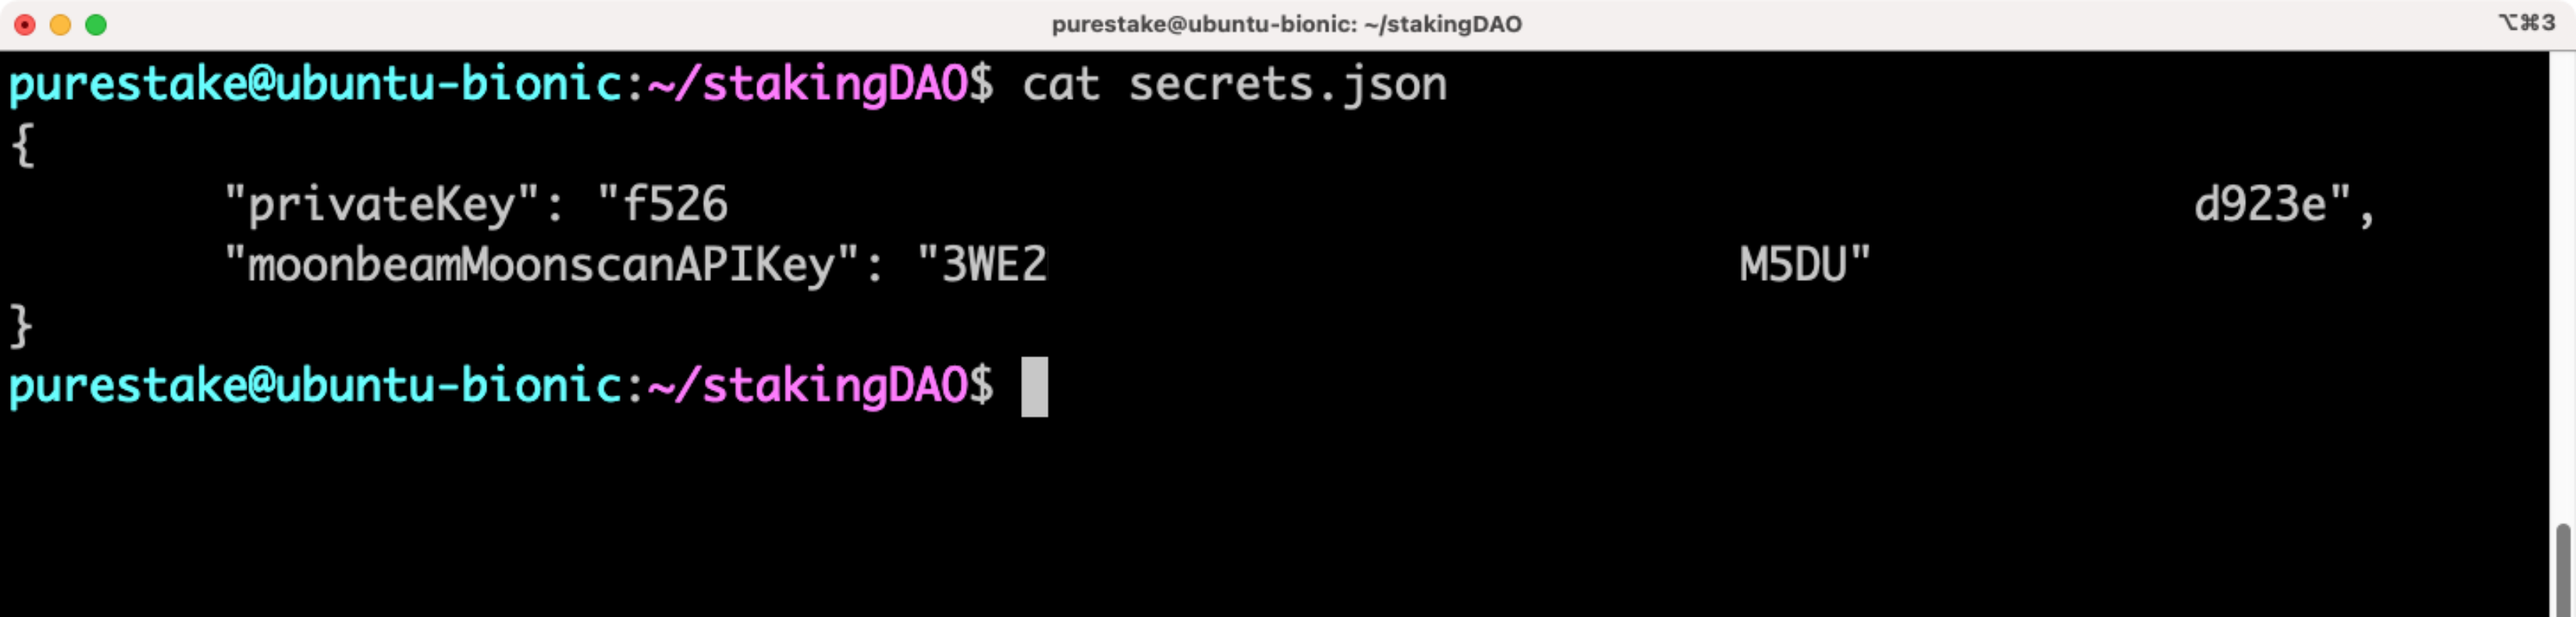
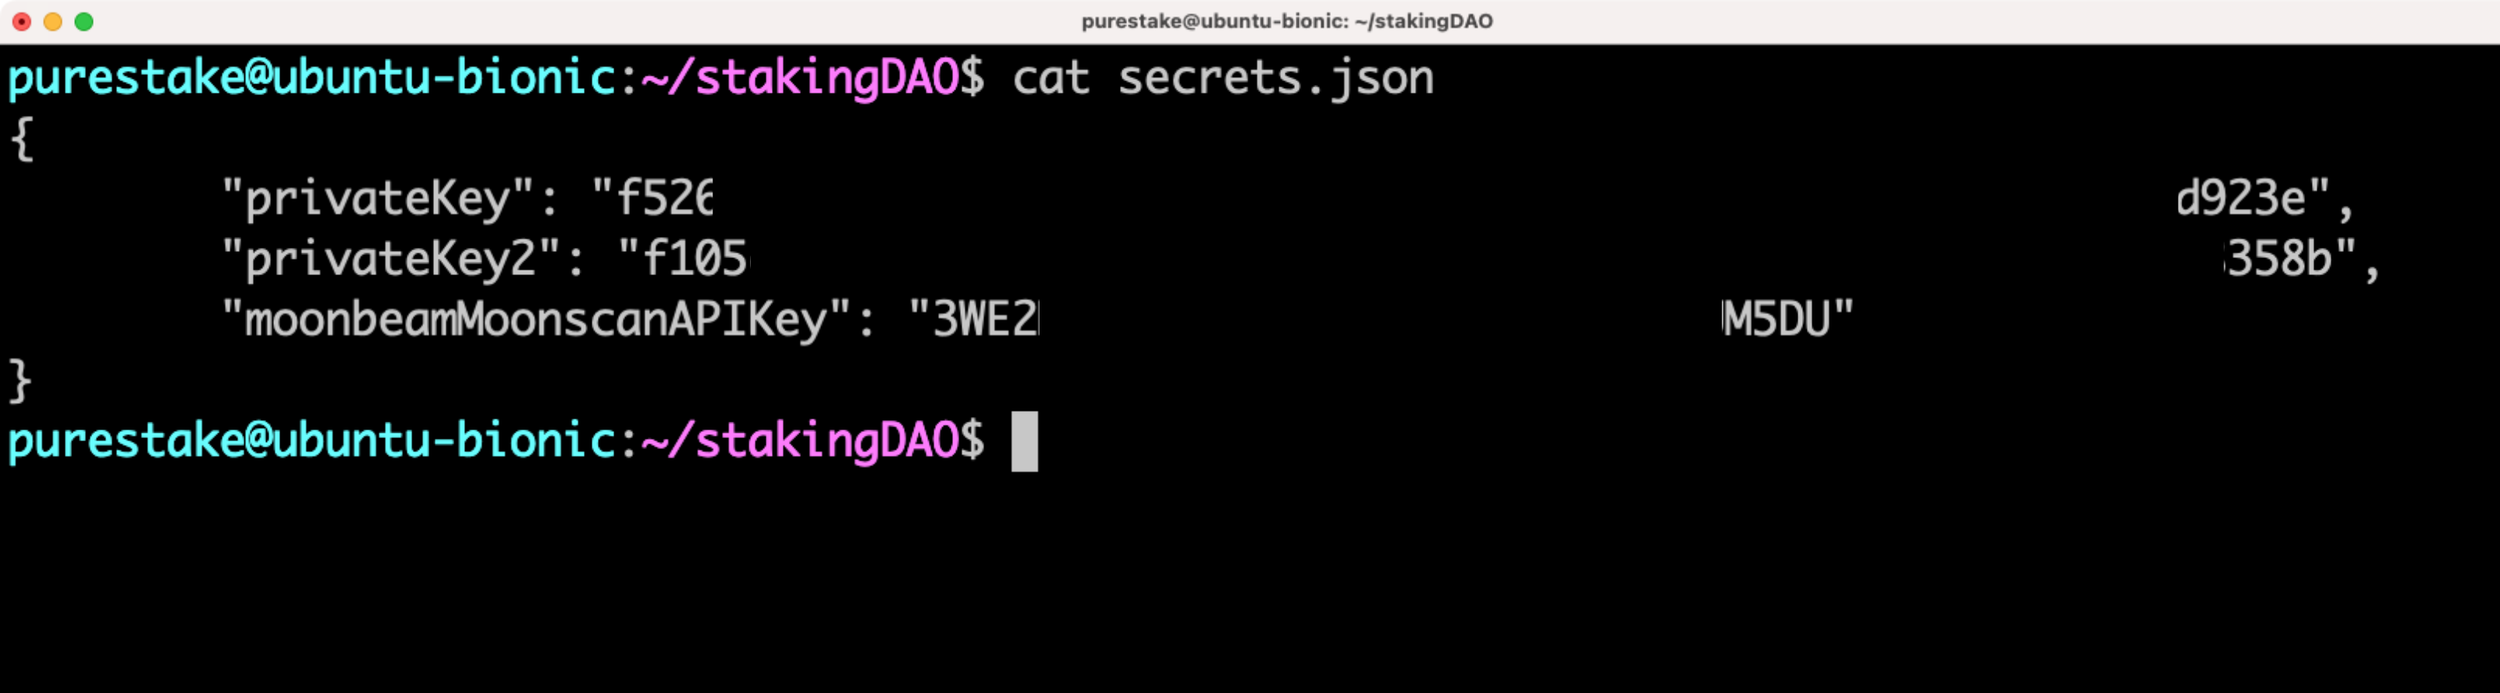
revise testing section to recommend moonbeam local dev node

diff --git a/tutorials/hardhat-tutorial.md b/tutorials/hardhat-tutorial.md
@@ -23,6 +23,7 @@ To get started, you will need the following:
  - A Moonbase Alpha account funded with DEV. 
   --8<-- 'text/faucet/faucet-list-item.md'
  - A [Moonscan API Key](/builders/build/eth-api/verify-contracts/etherscan-plugins/#generating-a-moonscan-api-key){target=_blank}
+ - For the [Testing section](#running-your-tests) you'll need to have [a local Moonbeam node running](/builders/get-started/networks/moonbeam-dev/){target=_blank}
   - 
 --8<-- 'text/common/endpoint-examples.md'
 
@@ -86,19 +87,20 @@ To get started, take the following steps:
 
 ## Hardhat Configuration File {: #hardhat-configuration-file } 
 
-Before you can deploy the contract to Moonbase Alpha, you'll need to modify the Hardhat configuration file and create a secure file to store your private key and your [Moonscan API key](/builders/build/eth-api/verify-contracts/etherscan-plugins/#generating-a-moonscan-api-key){target=_blank} in.
+Before you can deploy the contract to Moonbase Alpha, you'll need to modify the Hardhat configuration file and create a secure file to store your private keys and your [Moonscan API key](/builders/build/eth-api/verify-contracts/etherscan-plugins/#generating-a-moonscan-api-key){target=_blank} in.
 
-You can create a `secrets.json` file to store your private key by running:
+You can create a `secrets.json` file to store your private keys by running:
 
 ```
 touch secrets.json
 ```
 
-Then add your private key and Moonscan API key to it:
+Then add your private keys and Moonscan API key to it. Here, we're adding two private keys because we'll need at least 2 separate accounts to properly test the staking DAO. 
 
 ```json
 {
     "privateKey": "YOUR-PRIVATE-KEY-HERE",
+    "privateKey2": "YOUR-SECOND-PRIVATE-KEY-HERE",
     "moonbeamMoonscanAPIKey": "YOUR-MOONSCAN-API-KEY-HERE"
 }
 ```
@@ -132,7 +134,7 @@ require('@nomiclabs/hardhat-ethers');
 
 // 2. Import your private key from your pre-funded Moonbase Alpha testing 
 // account and your Moonscan API key
-const { privateKey, moonbeamMoonscanAPIKey } = require('./secrets.json');
+const { privateKey, privateKey2, moonbeamMoonscanAPIKey } = require('./secrets.json');
 
 module.exports = {
   // 3. Specify the Solidity version
@@ -143,8 +145,13 @@ module.exports = {
     moonbase: {
       url: '{{ networks.moonbase.rpc_url }}',
       chainId: {{ networks.moonbase.chain_id }}, // {{ networks.moonbase.hex_chain_id }} in hex
-      accounts: [privateKey]
-    }
+      accounts: [privateKey, privateKey2]
+    },
+    dev: {
+      url: 'http://127.0.0.1:9933',
+      chainId: 1281, // (hex: 0x501)
+      accounts: [privateKey, privateKey2]
+    },
   },
   // 5. Set up your Moonscan API key for contract verification
   etherscan: {
@@ -360,10 +367,17 @@ And that's it! You're now ready to run your tests!
 
 If you've followed all of the prior sections, your [`Dao.js`](https://raw.githubusercontent.com/PureStake/moonbeam-intro-course-resources/main/delegation-dao-lesson-one/Dao.js){target=_blank} test file should be all set to go. Otherwise, you can copy the [complete snippet from GitHub](https://github.com/PureStake/moonbeam-docs/blob/master/.snippets/code/hardhat/dao-js-test-file.js) into your `Dao.js` test file.
 
+Since our test cases encompass mostly configuration and setup of the staking DAO and don't involve actual delegation actions, we'll be running our tests on a Moonbeam dev node (local node). If you wrote different test cases that involved delegation to collators (e.g. when the DAO is funded sufficiently) you'll want to utilize Moonbase Alpha instead. You can use the flag `--network moonbase` to run the tests using Moonbase Alpha. In that case, be sure that your deployer address is sufficiently funded with DEV tokens. You can also omit the `--network` flag in which case the tests will run against a local hardhat network. 
+
+!!! challenge
+    Try to create an additional test case that verifies the stakingDAO successfully delegates to a collator once `minDelegationStk` is met. You'll need to test this on Moonbase Alpha rather than a local dev node.
+
+First, make sure that your local Moonbeam node is running by following the [instructions for launching a local dev node](/builders/get-started/networks/moonbeam-dev/){target=_blank}. Then, you'll need to send yourself some Moonbase DEV tokens from some of the pre-funded development accounts to fund the accounts stored in your `secrets.json` file. It is inadvisable to import the pre-funded development account private keys into your `secrets.json` file because you could inadvertently send real funds to those accounts, which would result in a loss of those funds.  
+
 You can run your tests with the following command: 
 
 ```
-npx hardhat test tests/Dao.js
+npx hardhat test --network dev tests/Dao.js
 ```
 
 If everything was set up correctly, you should see output like the following: 
